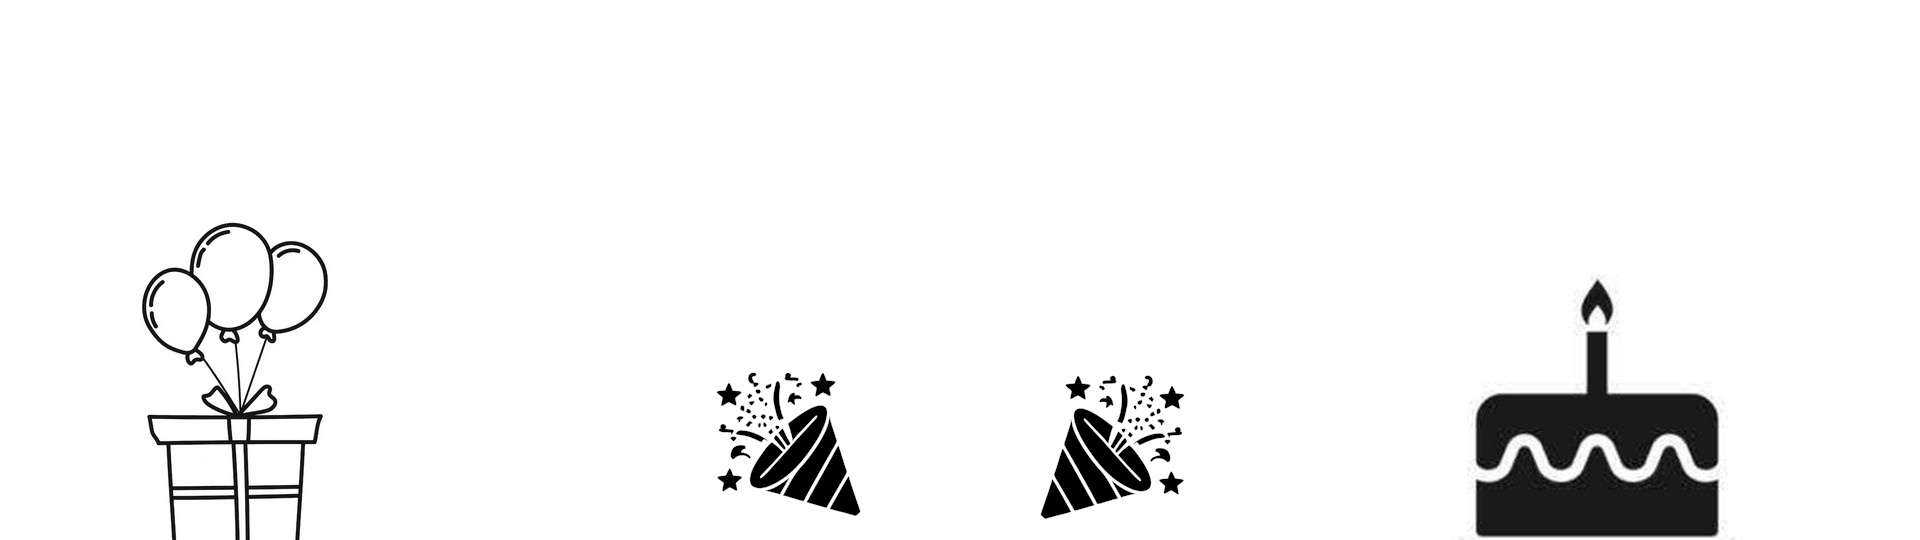
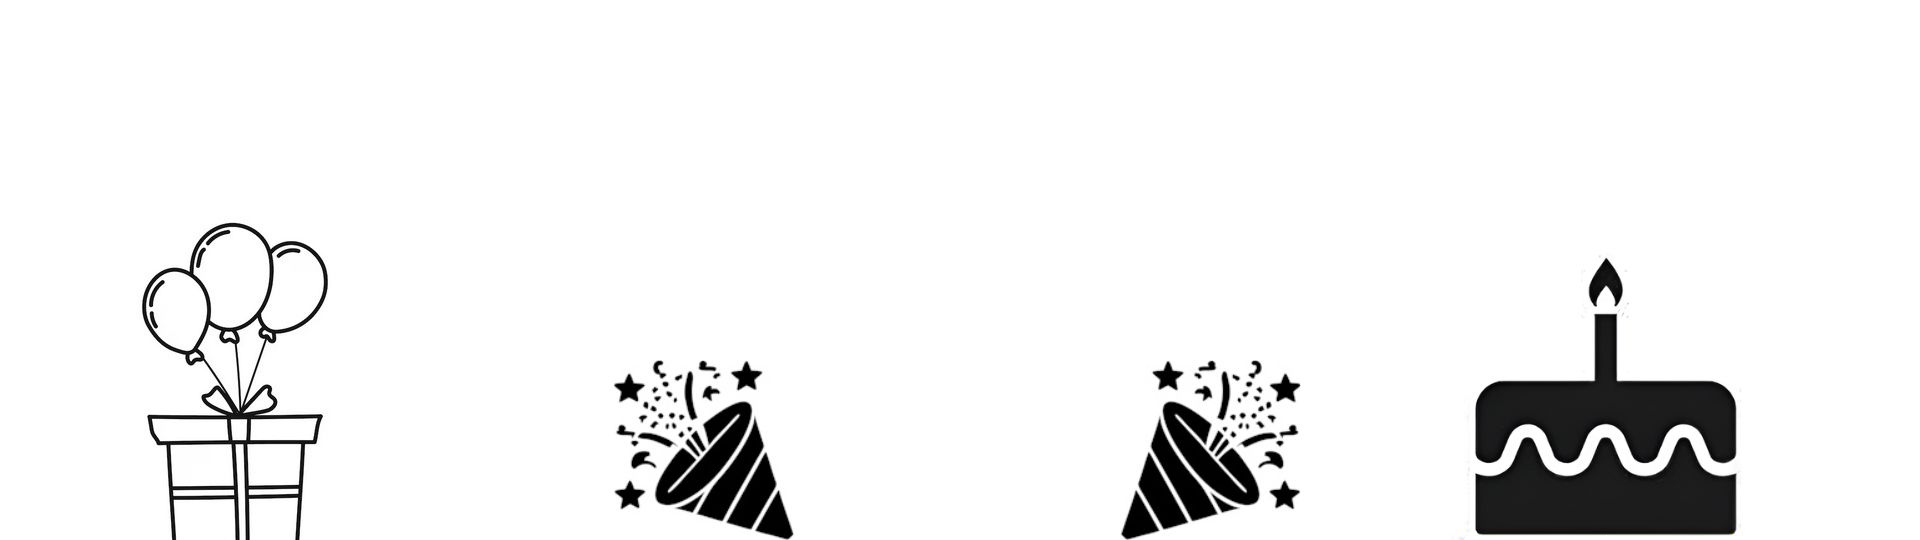
v4.5: - Redesigning the bd picture - Fixing language issues - Recoding flag emoji behavior

Changed region(s): [[0.5312, 0.6519, 0.6875, 1.0], [0.3125, 0.6815, 0.4688, 1.0], [0.75, 0.4741, 0.9062, 1.0]]

diff --git a/cogs/birthday_check_task.py b/cogs/birthday_check_task.py
@@ -143,26 +143,55 @@ async def generate_birthday_image(user: discord.Member, title_text: str, name_te
 
         with Image.open(bg_path) as img:
             draw = ImageDraw.Draw(img)
+
             try:
-                font_title = ImageFont.truetype(FONT_PATH, 60)
-                font_name = ImageFont.truetype(FONT_PATH, 80)
+                font_title = ImageFont.truetype(FONT_PATH, 75)
+                font_name = ImageFont.truetype(FONT_PATH, 105)
             except:
                 font_title = ImageFont.load_default()
                 font_name = ImageFont.load_default()
 
-            draw.text((img.width // 2, 150), title_text, font=font_title, fill=IMAGE_TEXT_COLOR, anchor="mm")
-            draw.text((img.width // 2, 300), name_text, font=font_name, fill=IMAGE_TEXT_COLOR, anchor="mm")
+            center_x = img.width // 2
+            center_y = img.height // 3
 
+            y_title = center_y - 100
+            y_name = center_y + 15
+
+            # Text zeichnen
+            draw.text((center_x, y_title), title_text, font=font_title, fill=IMAGE_TEXT_COLOR, anchor="mm")
+            draw.text((center_x, y_name), name_text, font=font_name, fill=IMAGE_TEXT_COLOR, anchor="mm")
+
+            # Avatar laden und einfügen
             async with aiohttp.ClientSession() as session:
                 async with session.get(str(user.display_avatar.url)) as resp:
                     if resp.status == 200:
                         avatar_data = io.BytesIO(await resp.read())
                         with Image.open(avatar_data) as avatar:
-                            avatar = avatar.resize((200, 200)).convert("RGBA")
-                            mask = Image.new("L", (200, 200), 0)
+                            avatar_size = int(img.height * 0.45)
+                            avatar = avatar.resize((avatar_size, avatar_size)).convert("RGBA")
+
+                            # 1. Runde Maske erstellen
+                            mask = Image.new("L", (avatar_size, avatar_size), 0)
                             draw_mask = ImageDraw.Draw(mask)
-                            draw_mask.ellipse((0, 0, 200, 200), fill=255)
-                            img.paste(avatar, (img.width // 2 - 100, 450), mask)
+                            draw_mask.ellipse((0, 0, avatar_size, avatar_size), fill=255)
+
+                            # 2. Alpha-Kanal des Avatars mit der runden Maske multiplizieren
+                            # Dadurch bleibt Transparenz transparent UND das Bild wird rund!
+                            avatar_alpha = avatar.split()[3]
+                            combined_mask = Image.alpha_composite(
+                                Image.new("RGBA", (avatar_size, avatar_size), (0, 0, 0, 0)),
+                                avatar
+                            ).split()[3]
+
+                            # Die finale Maske kombiniert die Kreisform mit der Transparenz
+                            final_mask = Image.new("L", (avatar_size, avatar_size), 0)
+                            final_mask.paste(mask, (0, 0), mask=avatar_alpha)
+
+                            x_pos = center_x - (avatar_size // 2)
+                            y_pos = img.height - avatar_size
+
+                            # 3. Mit der finalen, kombinierten Maske auf das Hintergrundbild setzen
+                            img.paste(avatar, (x_pos, y_pos), final_mask)
 
             img_byte_arr = io.BytesIO()
             img.save(img_byte_arr, format='PNG')
@@ -266,8 +295,6 @@ class BirthdayCheckTask(commands.Cog):
                     generated_image_file = None
                     if current_config.get("birthday_image_enabled", 1):
                         generated_image_file = await self.bot.generate_birthday_image(member, final_image_title, member.display_name, current_config.get("birthday_image_background"))
-                        if generated_image_file:
-                            embed.set_image(url="attachment://birthday_card.png")
 
                     if target_channel:
                         try:

diff --git a/cogs/info_commands.py b/cogs/info_commands.py
@@ -26,15 +26,15 @@ class InfoCommands(commands.Cog, name="InfoCommands"):
 
         _ = translator.get_translation(lang)
 
-        description_text = (_("""
-Hey! Ich bin **Birthdayyyyys**, ein Bot, um Leuten zu ihrem **Geburtstag** zu **gratulieren**! :)
-
-## ❔ __Infos:__
-<:status_online:1390283178144698420> Ich bin <t:1751450400:R> erstellt worden
-<:developer:1390293000747225098> Entwickler: _chrxstianst.
-<:python:1390293453606486056> Library: discord.py-2.6.4
-ℹ️ Version: v3.0
-        """))
+        description_text = _(
+            "Hey! Ich bin **Birthdayyyyys**, ein Bot, um Leuten zu ihrem **Geburtstag** zu **gratulieren**! :)\n"
+            "\n"
+            "## ❔ __Infos:__\n"
+            "<:status_online:1390283178144698420> Ich bin <t:1751450400:R> erstellt worden\n"
+            "<:developer:1390293000747225098> Entwickler: _chrxstianst.\n"
+            "<:python:1390293453606486056> Library: discord.py-{version}\n"
+            "ℹ️ Version: v4.5"
+        ).format(version=discord.__version__)
 
         info_embed = discord.Embed(
             title="Birthdayyyyys",

diff --git a/cogs/config_commands.py b/cogs/config_commands.py
@@ -552,16 +552,18 @@ class LanguageConfigView(discord.ui.View):
 
         self.add_item(
             discord.ui.Button(
-                label=_("Deutsch 🇩🇪"),
+                label=_("Deutsch"),
                 style=discord.ButtonStyle.grey,
-                custom_id="lang_de"
+                custom_id="lang_de",
+                emoji="<:de:1470890238871339202>"
             )
         )
         self.add_item(
             discord.ui.Button(
-                label=_("English 🇬🇧"),
+                label=_("English"),
                 style=discord.ButtonStyle.grey,
-                custom_id="lang_en"
+                custom_id="lang_en",
+                emoji="<:gb:1470890201449758763>"
             )
         )
 

diff --git a/main.py b/main.py
@@ -11,7 +11,7 @@ import mdb
 load_dotenv()
 
 # --- BETA VERWALTUNG (Nur für Beta-Versionen!) ---
-beta = False
+beta = True
 
 if beta:
     TOKEN = os.getenv('DISCORD_BETA_TOKEN')